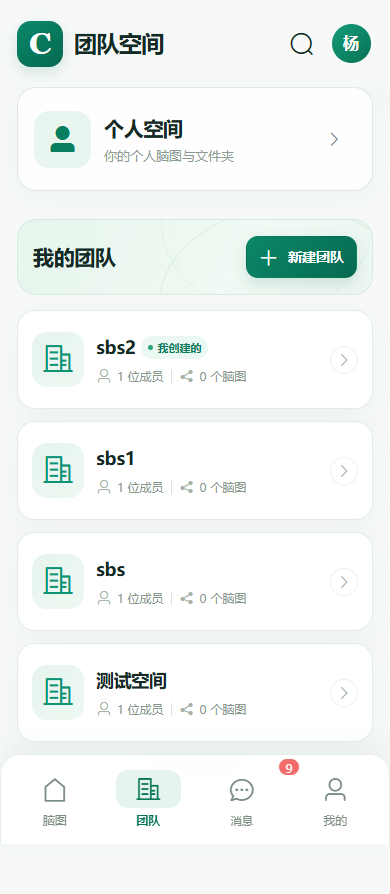
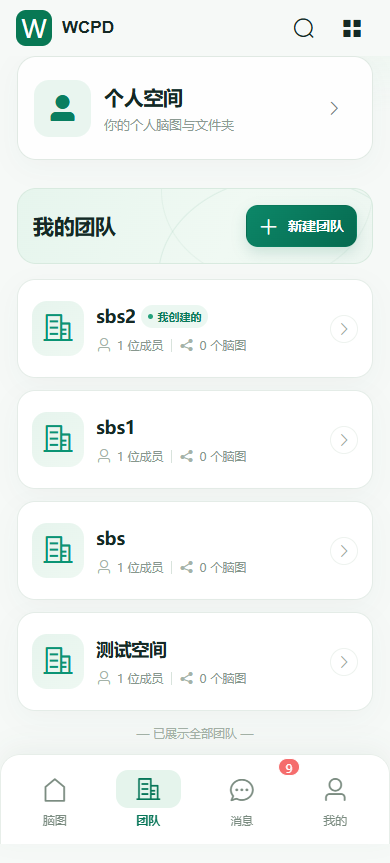
feat(ProductShellLayout): 优化移动端页眉布局与样式，提升响应式表现

diff --git a/web/src/pages/ProductShell/components/ProductShellLayout.vue b/web/src/pages/ProductShell/components/ProductShellLayout.vue
@@ -134,12 +134,13 @@
     </aside>
     <header v-if="shellMode !== 'embed'" class="mobileShellHeader">
       <template v-if="$route.path === '/spaces'">
-        <button class="mobileTeamBrand" aria-label="打开全部功能" @click="openNavigation"><span class="mobileBrandMark">C</span></button>
-        <h1 class="mobilePageTitle">团队空间</h1>
+        <button class="mobileBrandButton mobileTeamBrand" aria-label="打开全部功能" @click="openNavigation"><span class="mobileBrandMark">W</span><strong>WCPD</strong></button>
+        <div class="mobileHeaderSpacer" />
         <button aria-label="搜索团队" @click="$bus.$emit('mobile-search-teams')"><i class="el-icon-search" /></button>
+        <button aria-label="全部功能与设置" @click="openNavigation"><i class="el-icon-menu" /></button>
       </template>
       <template v-else>
-      <button aria-label="打开全部功能" @click="openNavigation"><span class="mobileBrandMark">W</span><strong>WCPD</strong></button>
+      <button class="mobileBrandButton" aria-label="打开全部功能" @click="openNavigation"><span class="mobileBrandMark">W</span><strong>WCPD</strong></button>
       <button v-if="$route.path.startsWith('/spaces/')" class="detailLauncher" aria-label="全部功能与设置" @click="openNavigation"><i class="el-icon-menu" /></button>
       <template v-else-if="!$route.path.startsWith('/spaces/')">
       <button aria-label="全部功能与设置" @click="openNavigation"><i class="el-icon-menu" /></button>
@@ -1147,6 +1148,18 @@ export default {
 </style>
 <style lang="less">
 @media (max-width: 767px) {
+  .productShell .mobileShellHeader {
+    left: 0; right: 0; transform: none; width: 100%; max-width: none; box-sizing: border-box;
+    height: calc(56px + env(safe-area-inset-top)); padding: env(safe-area-inset-top) 16px 0;
+    font-family: Arial, 'Microsoft YaHei', sans-serif;
+    .mobileBrandButton { gap: 10px; min-width: 44px; margin: 0; padding: 0; }
+    .mobileBrandButton .mobileBrandMark { width: 36px; height: 36px; flex: 0 0 36px; border-radius: 10px; font: 400 25px/1 Arial, sans-serif; background: #087854; box-shadow: none; }
+    .mobileBrandButton strong { font: 700 17px/1 Arial, sans-serif; letter-spacing: normal; }
+  }
+}
+</style>
+<style lang="less">
+@media (max-width: 767px) {
   .productShell--team-detail {
     --ui-bg: #f6f9f7; --ui-primary: #08785d; --ui-text: #182d29; --ui-text-secondary: #7c8e88;
     font-family: -apple-system,BlinkMacSystemFont,'PingFang SC','Microsoft YaHei',sans-serif;
@@ -1169,7 +1182,9 @@ export default {
     .productMain { max-width: 640px !important; margin-inline: auto !important; padding-top: calc(104px + env(safe-area-inset-top)); padding-bottom: calc(114px + env(safe-area-inset-bottom)); min-height: 100dvh; box-sizing: border-box; background: radial-gradient(ellipse 64% 230px at 100% -62px,rgba(212,239,224,.58),transparent 76%),#f6f9f7; box-shadow: 0 0 50px rgba(20,52,39,.10); }
     .spacesPage { padding: 0 24px 0 !important; }
     .mobileShellHeader { left: 50%; right: auto; transform: translateX(-50%); width: 100%; max-width: 640px; box-sizing: border-box; height: calc(104px + env(safe-area-inset-top)); padding-inline: 24px; background: #f6f9f7; gap: 8px; }
-    .mobileShellHeader .mobileTeamBrand { min-width: 52px; margin-right: 7px; }
+    .mobileShellHeader .mobileTeamBrand { min-width: 52px; margin-right: 7px; gap: 11px; }
+    .mobileHeaderSpacer { flex: 1; }
+    .mobileShellHeader .mobileTeamBrand strong { font-size: 20px; }
     .mobileBrandMark { width: 52px; height: 52px; border-radius: 16px; font-family: Georgia,serif; font-size: 35px; font-weight: 600; background: linear-gradient(145deg,#0a886a,#05694f); box-shadow: 0 6px 14px rgba(4,115,83,.15); }
     .mobilePageTitle { font-size: 27px; font-weight: 750; letter-spacing: -.6px; white-space: nowrap; }
     .mobileShellHeader .userAvatar { width: 45px !important; height: 45px !important; font-size: 19px !important; background: linear-gradient(135deg,#159c77,#087255); }
@@ -1204,4 +1219,17 @@ export default {
   }
 }
 @media (max-width: 470px) { .productShell .mobileBottomNav { padding-inline: 7px; } }
+</style>
+<style lang="less">
+@media (max-width: 767px) {
+  .productShell--teams {
+    .productMain { padding-top: calc(56px + env(safe-area-inset-top)); }
+    .mobileShellHeader { height: calc(56px + env(safe-area-inset-top)); padding-inline: 16px; gap: 4px; }
+    .mobileShellHeader .mobileTeamBrand { margin-right: 0; min-width: 44px; gap: 10px; }
+    .mobileShellHeader .mobileTeamBrand strong { font-size: 17px; }
+    .mobileBrandMark { width: 36px; height: 36px; border-radius: 10px; font: 400 25px sans-serif; background: #087854; box-shadow: none; }
+    .mobileShellHeader > button:last-child { margin-left: 0; }
+    .mobileShellHeader i { font-size: 23px; }
+  }
+}
 </style>
